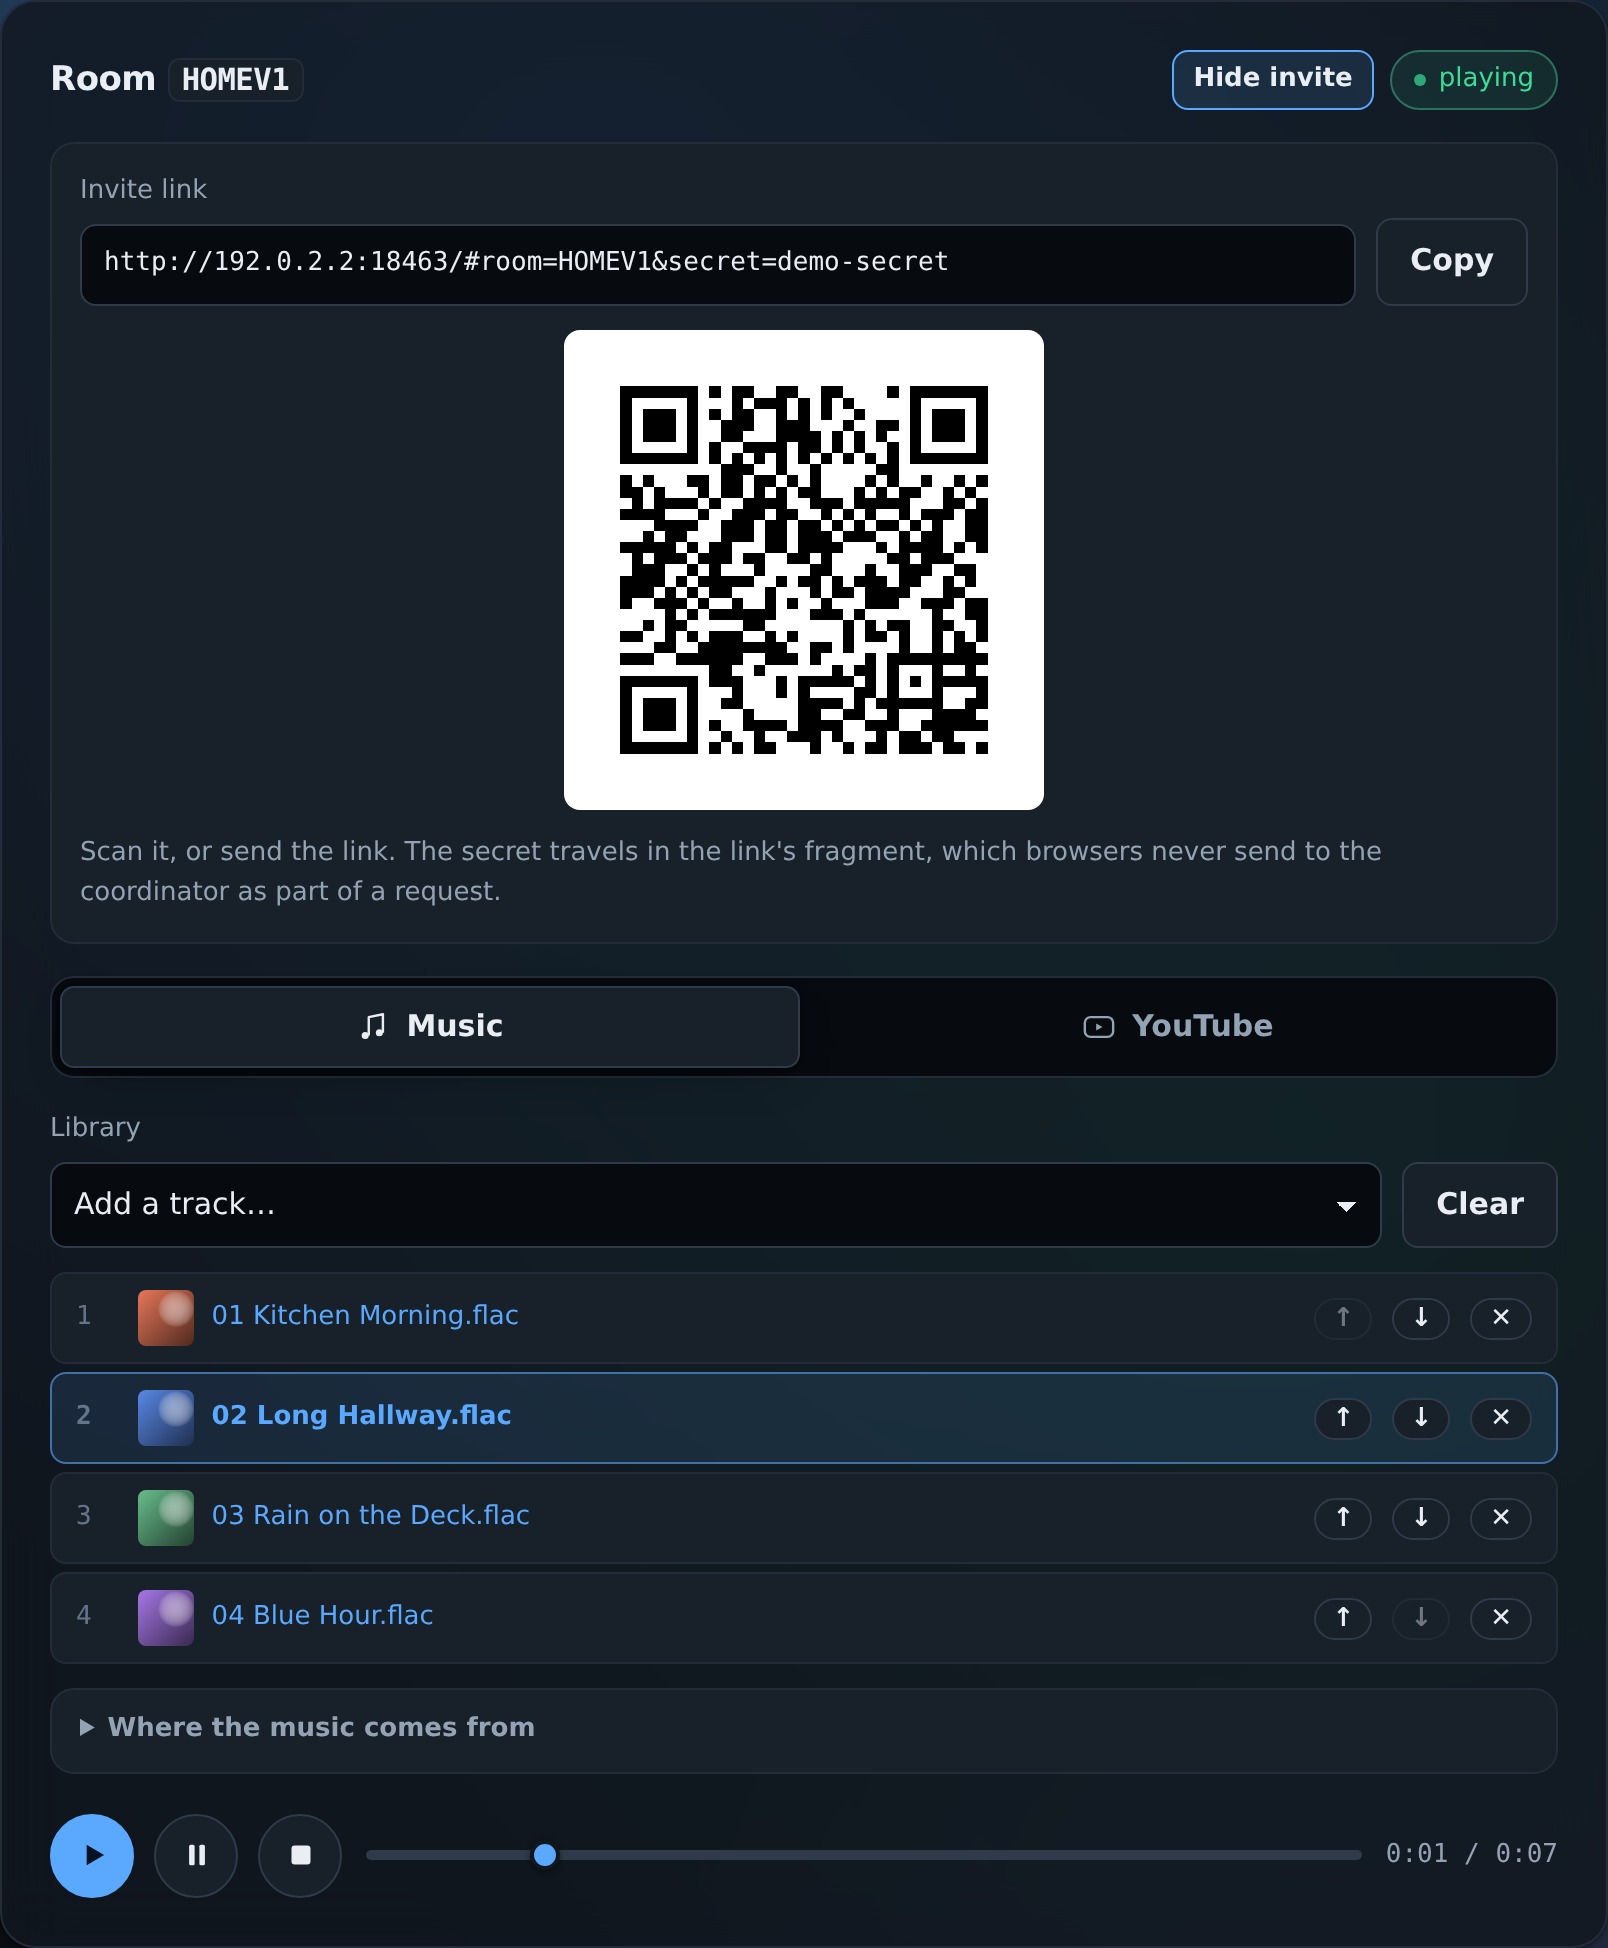
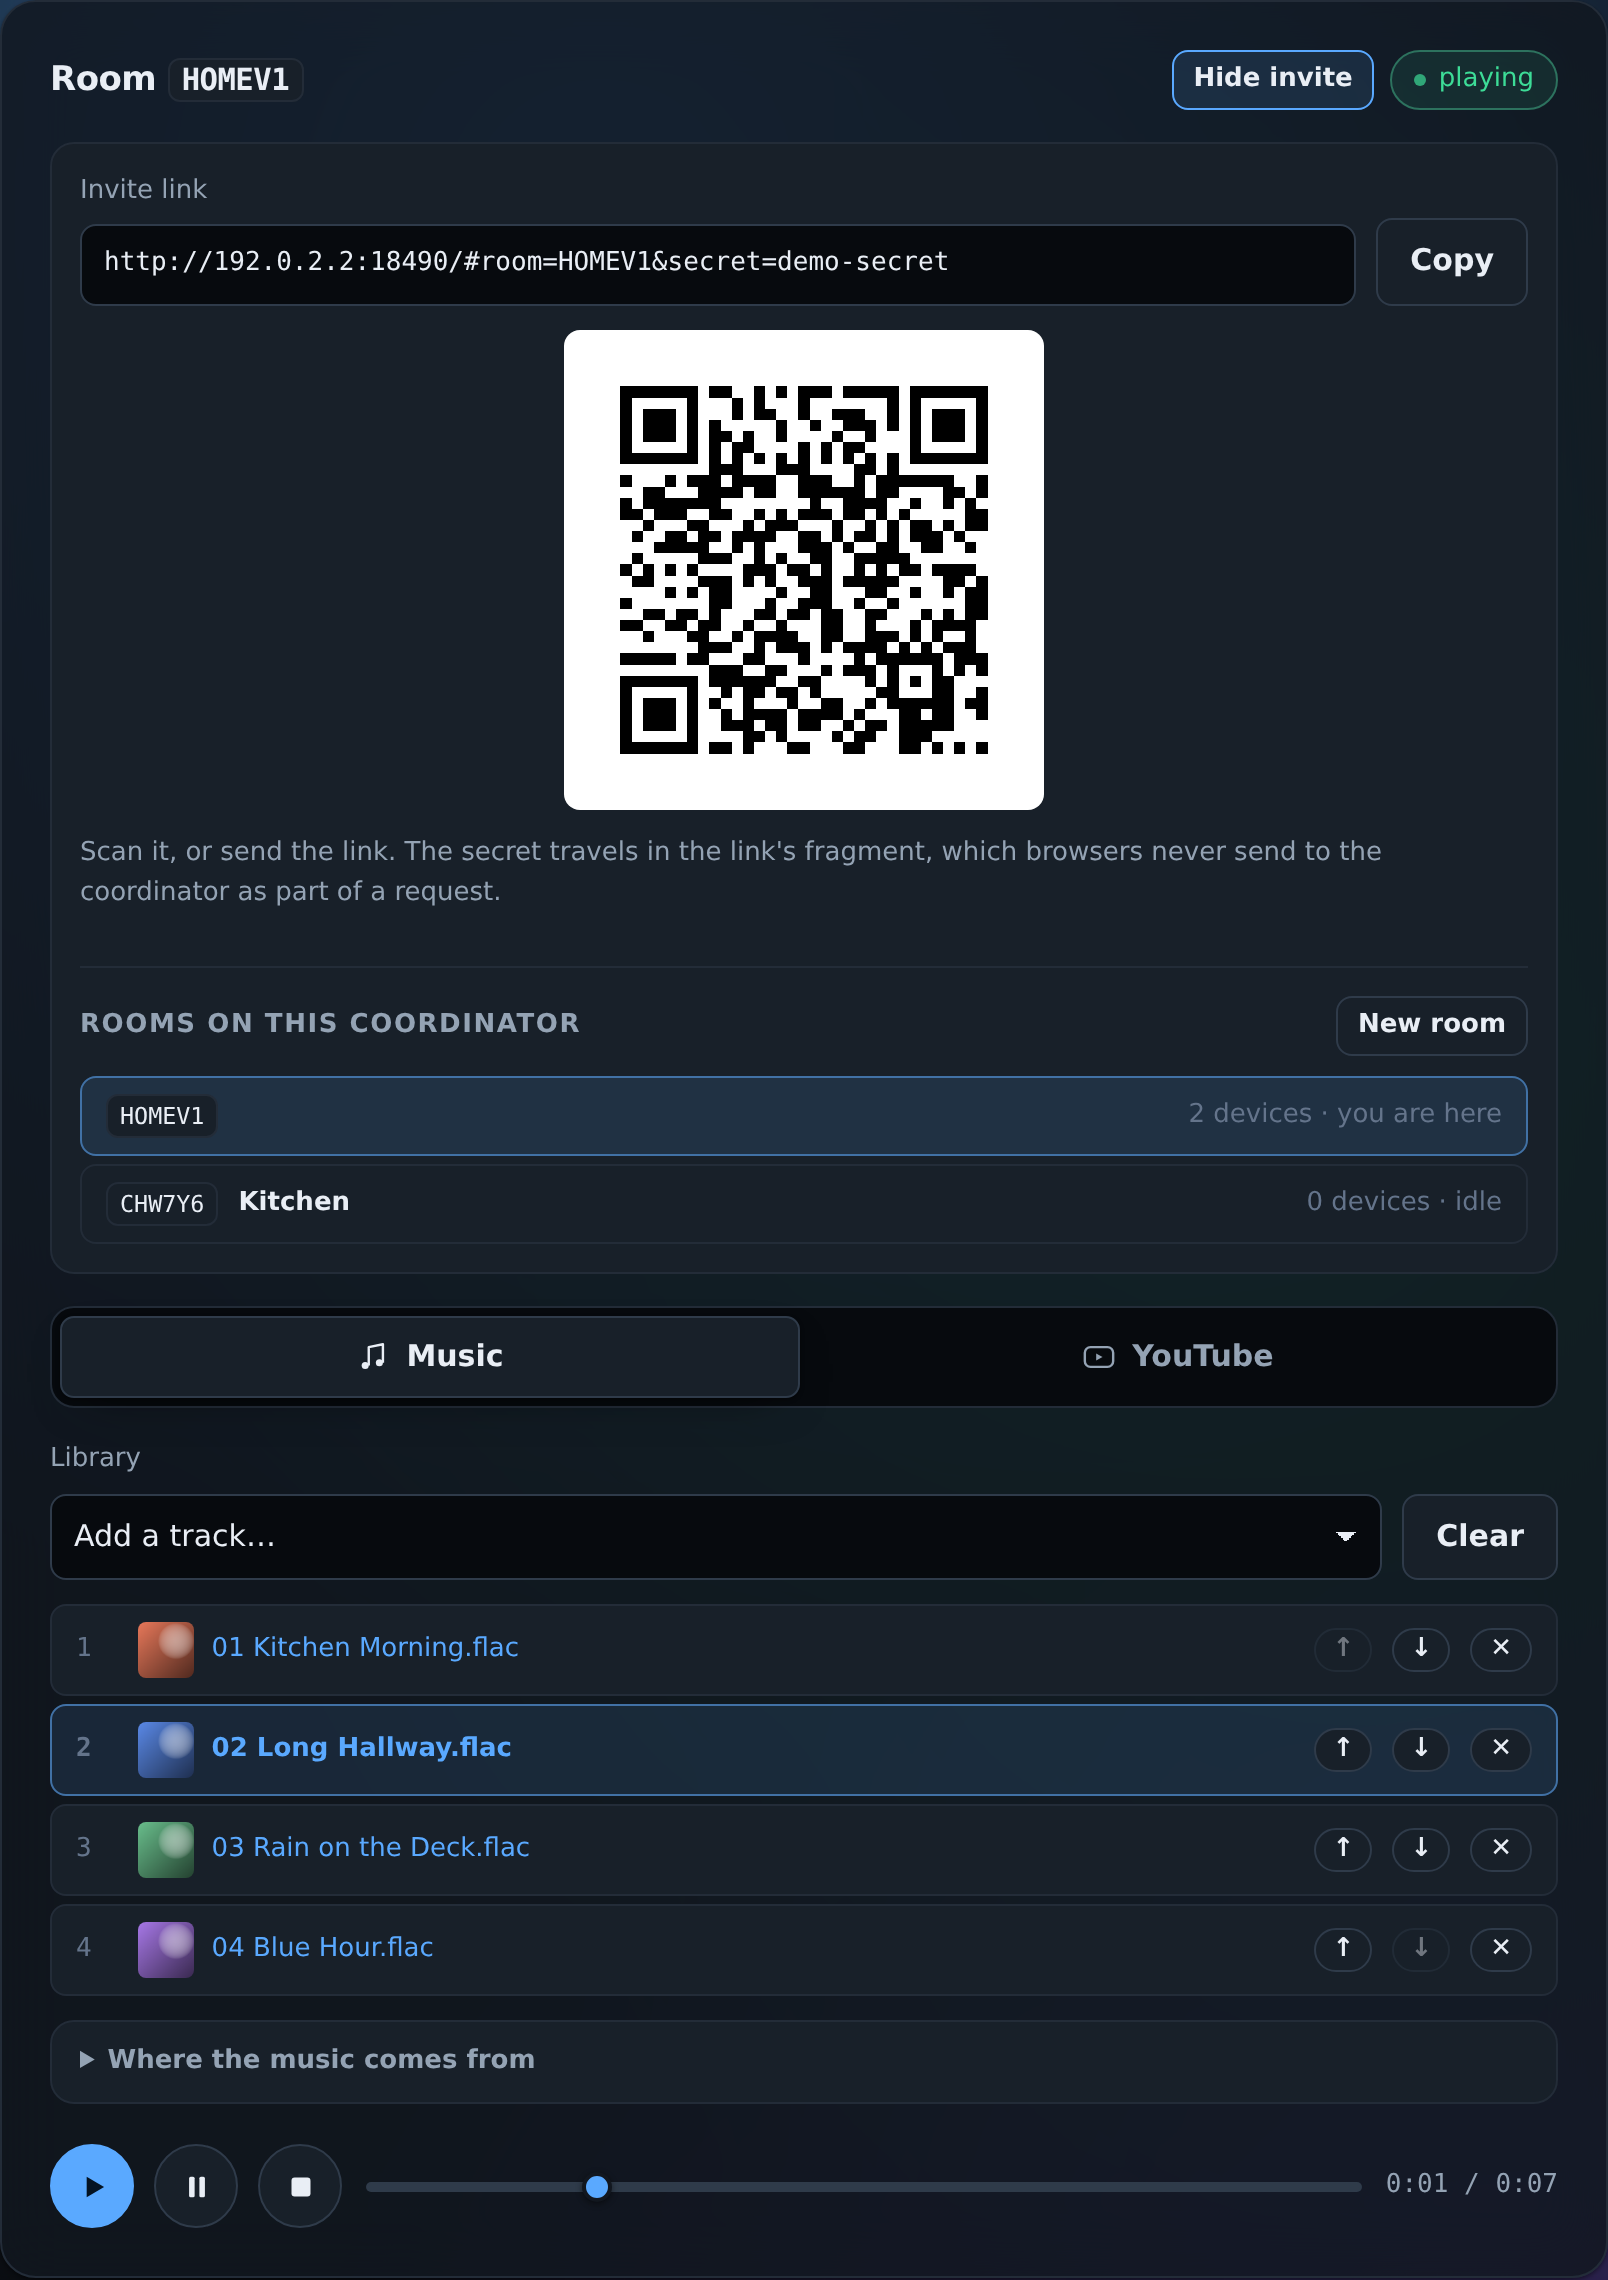
Document the three new features, and reshoot the screenshots
The README's "Not implemented" list was three items longer than the code
warrants. Multiple rooms, join rate limiting and bounded resampling all
move out of it; Opus and controlled video stay, now with the reason each
is still absent rather than just the fact.

Resampling gets a place in "getting them in time", because it changes
what someone should expect: slow drift now handles itself, and the thing
to look for is an arrow beside a device's drift figure rather than the
room stopping. Rooms get their own section, including the part that
surprises people — creating a room does not move the device that created
it.

Screenshots reshot against the new build. The invite panel now carries
the rooms list, so the picture shows the default room with "you are
here" beside it and a second, idle Kitchen room underneath.

Test counts corrected against an actual run: 244 unit, 7 integration, 76
browser.

Claude-Session: https://claude.ai/code/session_012dzs11rgFh2THCcXxJwgTX

diff --git a/README.md b/README.md
@@ -83,9 +83,13 @@ cargo run --release -- --media-dir ~/Music
 
 ## Screenshots
 
-| Invite a device | The room, on a phone |
+| Invite a device, and run more than one room | The room, on a phone |
 | --- | --- |
-| <img src="docs/images/invite.png" alt="The invite panel showing a copyable link and a QR code" width="380"> | <img src="docs/images/phone.png" alt="The same room on a narrow phone screen" width="230"> |
+| <img src="docs/images/invite.png" alt="The invite panel: a copyable link, a QR code, and a list of rooms on this coordinator" width="380"> | <img src="docs/images/phone.png" alt="The same room on a narrow phone screen" width="230"> |
+
+The invite panel is also where a second room comes from — the list shows every
+room on the coordinator, which one you are in, and whether anything is playing
+in the others.
 
 **Is the room actually together?** The Devices panel answers in one line, and
 names the device when it isn't:
